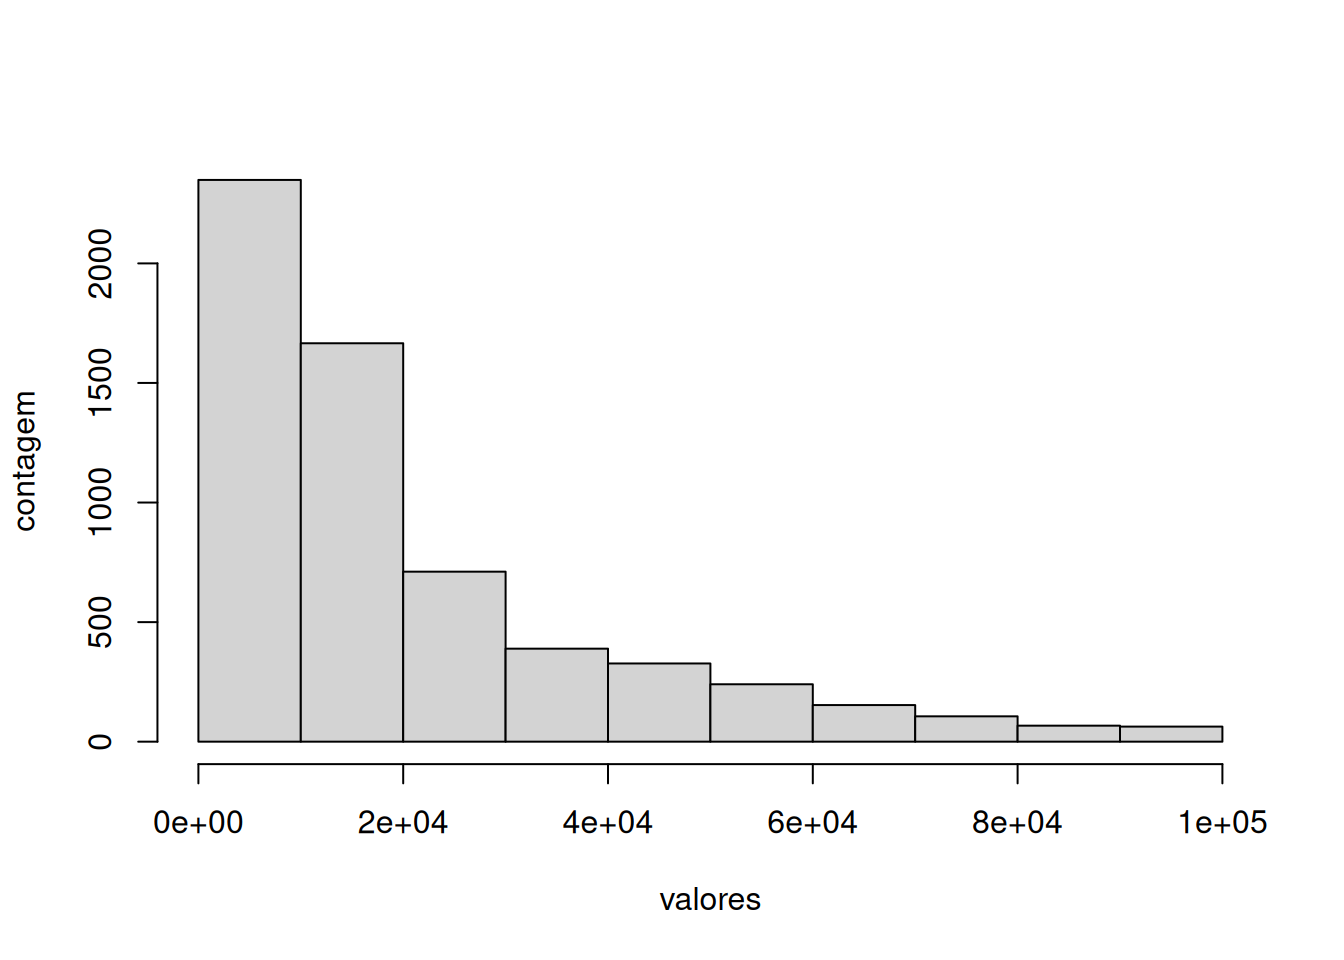
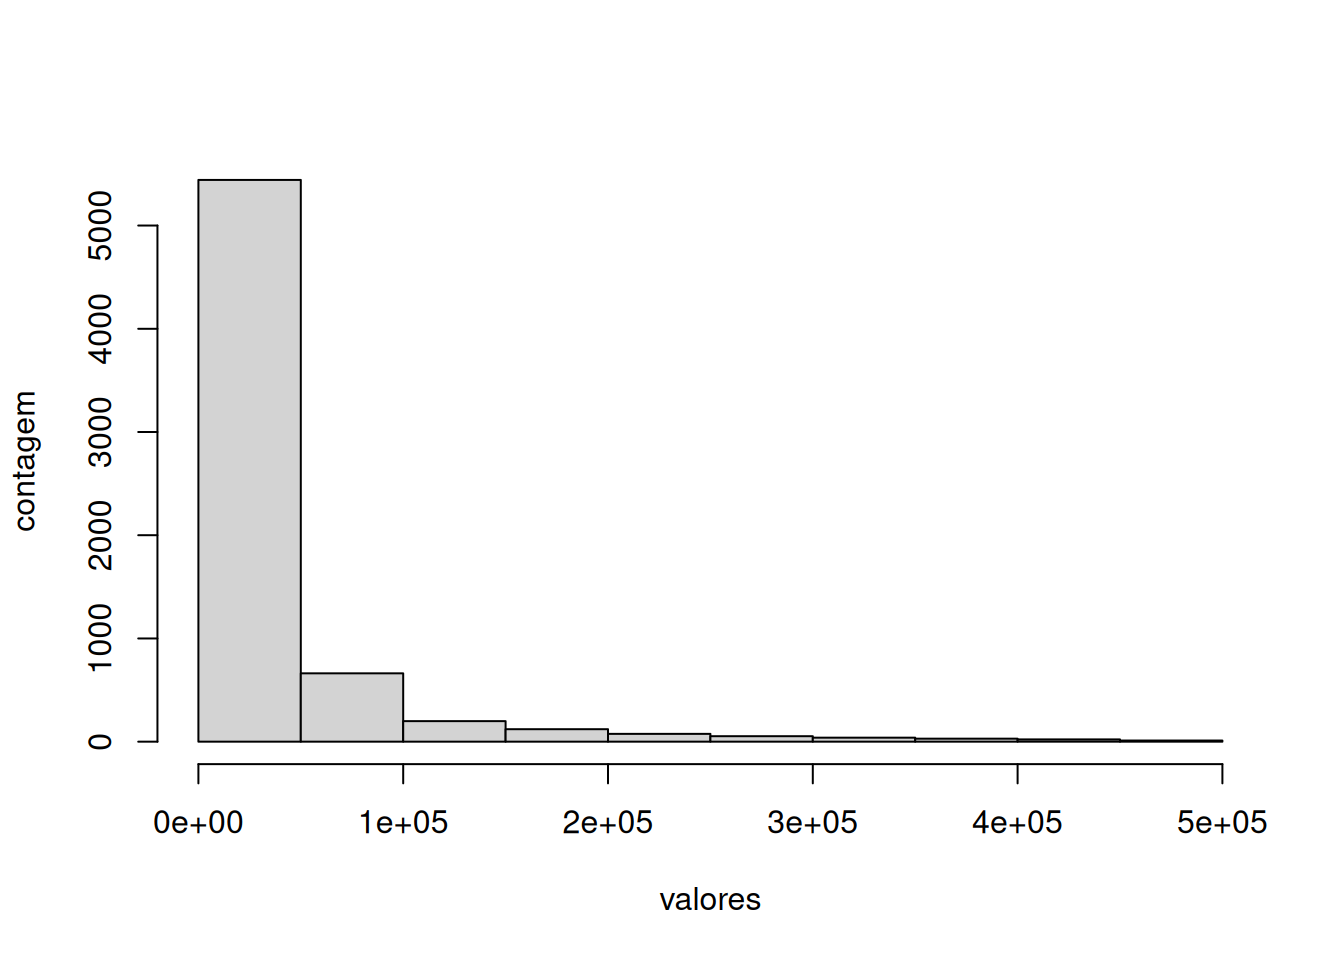
:jurimetria: detalhes finais de visualizacao

diff --git a/content/courses/jurimetria/aulas/04_visualizacao.html b/content/courses/jurimetria/aulas/04_visualizacao.html
@@ -91,6 +91,8 @@ Enquanto que a média de aproximadamente 1.000 é afetada pelo valor extremo, a 
 <p>A amplitude é a diferença entre o maior e o menor valor observados. Esta medida de variabilidade é fortemente influenciada por valores extremos nas observações, como outliers. O exemplo a seguir calcula a amplitude do valor da causa em ações cíveis:</p>
 <pre class="r"><code> max(data$valor_numerico, na.rm = TRUE) - min(data$valor_numerico, na.rm = TRUE)</code></pre>
 <pre><code>## [1] 681545490</code></pre>
+<pre class="r"><code>c(min(data$valor_numerico, na.rm = TRUE), max(data$valor_numerico, na.rm = TRUE))</code></pre>
+<pre><code>## [1]        10 681545500</code></pre>
 <p>Observamos uma amplitude de quase 700 milhões. Esta amplitude pode ser causada por um único caso com valor da causa próximo a 700 milhões. De fato, apenas 3 casos tem valor superior a 100 milhões, 9 acima de 10 milhões, e 122 acima de 1 milhão:</p>
 <pre class="r"><code>sum(data$valor_numerico &gt; 10^8, na.rm = TRUE)</code></pre>
 <pre><code>## [1] 3</code></pre>
@@ -137,6 +139,8 @@ aux</code></pre>
 <pre class="r"><code>quantile(data$valor_numerico, c(0.025, 0.975), na.rm = TRUE)</code></pre>
 <pre><code>##       2.5%      97.5% 
 ##    787.675 694093.688</code></pre>
+<pre class="r"><code>mean(data$valor_numerico &lt; 5*10^5, na.rm = TRUE)</code></pre>
+<pre><code>## [1] 0.9663085</code></pre>
 </div>
 </div>
 <div id="resumo-de-observações-no-r" class="section level2">
@@ -177,7 +181,8 @@ as observações para obter mais informação.</p>
 são gráficos que resumem uma variável mais do que o strip chart. Ao invés de apresentarem um ponto para cada observação, estes gráficos indicam a frequência com que cada valor ocorre para uma variável.</p>
 <p>O bar plot é usado para variáveis qualitativas e de contagem. Ele indica a contagem com que
 cada valor ocorre para esta variável. Para criar um barplot no <strong>R</strong>, utilizamos primeiramente o comando <em>table()</em>, que conta o número de ocorrências para cada observação. A seguir, a saída do comando table é usada no comando <em>barplot()</em>, que exibe o gráfico. Esta sequência é ilustrada para os principais <span class="math inline">\(10\)</span> assuntos processuais, a seguir:</p>
-<pre class="r"><code>contagens = sort(table(data$assunto_info), decreasing = TRUE)[1:10]
+<pre class="r"><code># Colocar categorias outros
+contagens = sort(table(data$assunto_info), decreasing = TRUE)[1:10]
 tibble(assunto = names(contagens), contagens) %&gt;%
   ggplot(aes(x = reorder(assunto, contagens, decreasing = TRUE), y = contagens)) +
   geom_bar(stat = &quot;identity&quot;, fill = &quot;skyblue&quot;) +
@@ -187,7 +192,7 @@ tibble(assunto = names(contagens), contagens) %&gt;%
 <p>Por sua vez, o histograma é usado para variáveis quantitativas contínuas. Nestas variáveis, não esperamos encontrar duas observações que assumem o mesmo valor. Assim, o bar plot é pouco informativo. Uma alternativa é dividir os possíveis valores em faixas e contar a quantidade de observações em cada uma destas faixas. O gráfico que indica estas faixas se chama histograma.
 Este gráfico pode ser obtido no <strong>R</strong> pelo comando <em>hist()</em>. O gráfico abaixo é um histograma para o valor da causa em ações em que este valor é abaixo de 100 mil:</p>
 <pre class="r"><code>data %&gt;% 
-  filter(valor_numerico &lt; 10^5) %&gt;% 
+  filter(valor_numerico &lt; 5*10^5) %&gt;% 
   select(valor_numerico) %&gt;% 
   unlist() %&gt;% 
   hist(xlab=&quot;valores&quot;, ylab=&quot;contagem&quot;, main = &quot;&quot;)</code></pre>
@@ -218,8 +223,14 @@ que um valor típico para as observações é representado pelo traço em negrit
 a menor observação maior que LI. Esta é uma faixa de valores tal que seria improvável
 obter uma observação fora dela. Observações fora destes limites são representadas
 no boxplot por asteriscos e são comumente chamadas de <em>outliers</em>.</p>
+</div>
+</div>
+<div id="visualizando-duas-variáveis" class="section level2">
+<h2>Visualizando duas variáveis</h2>
+<div id="boxplot-por-categoria" class="section level3">
+<h3>Boxplot por categoria</h3>
 <p>Muitas vezes, é útil separar as observações em grupos e construir boxplots para cada um destes.
-O exemplo a seguir, constrói boxplots para o valor dacausa quando separamos as observações por assunto.</p>
+O exemplo a seguir, constrói boxplots para o valor da causa quando separamos as observações por assunto.</p>
 <pre class="r"><code>assuntos_freq = names(sort(table(data$assunto_info), decreasing = TRUE)[1:10])
 data %&gt;% 
   filter(valor_numerico &lt; 10^5) %&gt;% 
@@ -233,35 +244,7 @@ data %&gt;%
   theme(axis.text.x = element_blank()) +
   ylab(&quot;Valor da causa&quot;)</code></pre>
 <p><img src="/courses/jurimetria/aulas/04_visualizacao_files/figure-html/unnamed-chunk-18-1.png" width="672" /></p>
-<p>Note que, ainda que a mediana no grupo com
-nitrato seja ligeiramente superior à mediana
-do grupo sem nitrato, a diferença entre
-estes valores é insignificante em relação
-à variabilidade dos dados.
-Esta conclusão é obtida visualmente vendo que
-os retângulos vermelho e azul estão praticamente sobrepostos.
-Este é um cenário em que esperamos que
-não exista diferença nos efeitos dos
-dois tipos de adubo.</p>
-<p>Por outro lado, podemos separar as
-observações nos grupos: sem e com fosfato.
-Neste caso, obtemos as figuras:</p>
-<pre class="r"><code>#ggplot(aes(y = efeito, 
-#           x = fosfato,
-#           color = fosfato), 
-#       data = adubo) + geom_boxplot()</code></pre>
-<p>Neste caso, observe que a diferença entre
-as medianas de cada grupo é grande em
-relação à variabilidade dos dados.
-Por exemplo, verificamos que
-os boxplots não tem sobreposição.
-Neste caso, é razoável esperar que
-os adubos com fosfato tenham um efeito maior
-do que os adubos sem fosfato.</p>
 </div>
-</div>
-<div id="visualizando-duas-variáveis" class="section level2">
-<h2>Visualizando duas variáveis</h2>
 <div id="scatter-plot" class="section level3">
 <h3>Scatter plot</h3>
 <p>Por vezes, estamos interessados em
@@ -270,30 +253,15 @@ Neste caso, podemos designar um eixo para cada variável
 e desenhar um ponto para cada observação.
 Este tipo de gráfico é chamado de <strong>scatter plot</strong>.</p>
 <p>No <strong>R</strong> é possível obter o scatter plot
-usando o comando <em>plot()</em>.
-A seguir, ilustramos este comando no
-banco de dados <em>iris</em> usando como variáveis
-o comprimento e largura das pétalas.</p>
-<pre class="r"><code>plot(iris$Petal.Length, iris$Petal.Width,
-     xlab=&quot;Comprimento da petala&quot;,
-     ylab=&quot;Largura da petala&quot;)</code></pre>
-<p><img src="/courses/jurimetria/aulas/04_visualizacao_files/figure-html/unnamed-chunk-20-1.png" width="672" /></p>
-<p>Note que, em média,
-quanto maior o comprimento da pétala,
-maior será a sua largura.
-Mais do que isso, parece haver
-uma relação linear entre estas quantidades.
-É possível ajustar uma reta que aproxima
-esta relação linear entre as observações
-usando o seguinte comando no <strong>R</strong>:</p>
-<pre class="r"><code>ggplot(aes(x = Petal.Length , y = Petal.Width),
-       data = iris) +
-geom_point(color=&#39;blue&#39;) +
-geom_smooth(method=&#39;lm&#39;, color = &quot;red&quot;) +
-xlab(&quot;Comprimento da petala&quot;) +
-ylab(&quot;Largura da petala&quot;)</code></pre>
-<pre><code>## `geom_smooth()` using formula = &#39;y ~ x&#39;</code></pre>
-<p><img src="/courses/jurimetria/aulas/04_visualizacao_files/figure-html/unnamed-chunk-21-1.png" width="672" /></p>
+usando o comando <em>plot()</em>.</p>
+<pre class="r"><code>data %&gt;% 
+  filter(valor_numerico &lt; 10^5) %&gt;% 
+  ggplot(aes(x = valor_numerico, y = Time)) +
+  geom_point(color=&#39;blue&#39;) +
+  geom_smooth(method=&#39;lm&#39;, color = &quot;red&quot;) +
+  xlab(&quot;Valor da causa&quot;) +
+  ylab(&quot;Tempo até sentença&quot;)</code></pre>
+<p><img src="/courses/jurimetria/aulas/04_visualizacao_files/figure-html/unnamed-chunk-19-1.png" width="672" /></p>
 </div>
 </div>
 </div>
